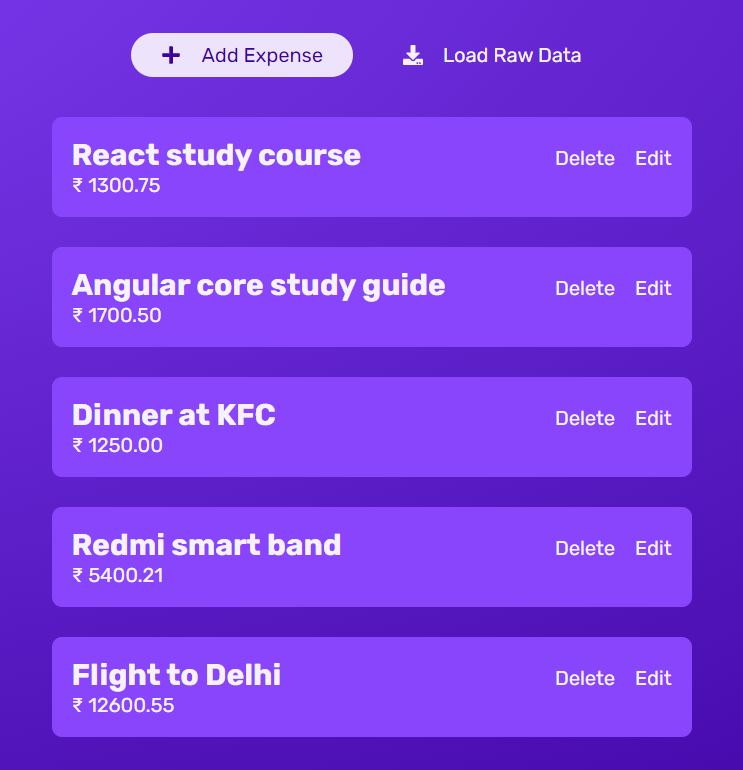
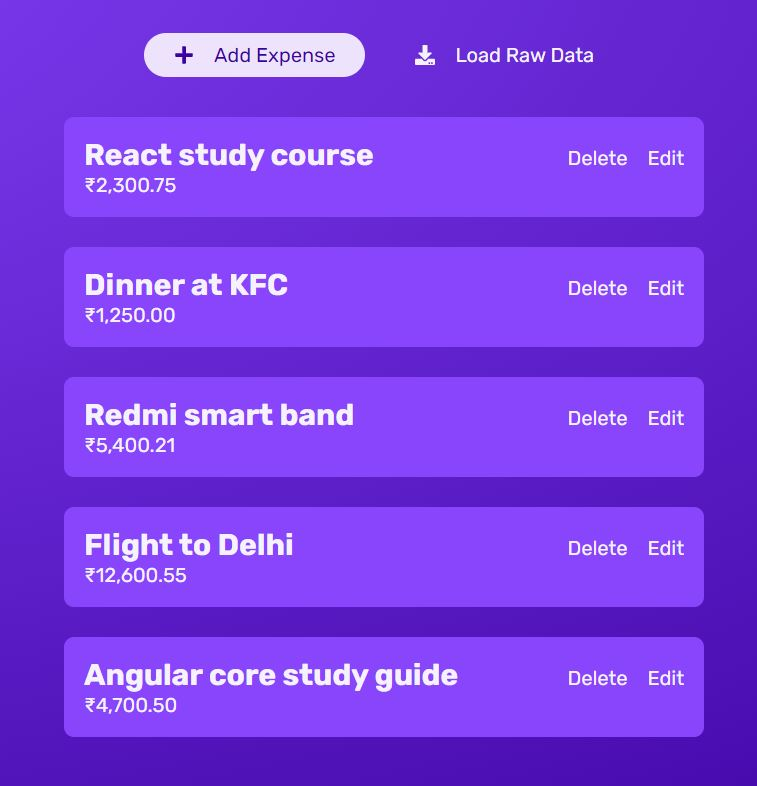
rupee format added

diff --git a/app/components/expenses/ExpenseStatistics.jsx b/app/components/expenses/ExpenseStatistics.jsx
@@ -1,4 +1,5 @@
 import { useMemo } from 'react';
+import { formatMyCurrency } from '~/components/util/currency-format';
 
 function calculateSummaryStatistics(expenses) {
   const amounts = expenses.map((expense) => +expense.amount);
@@ -22,19 +23,20 @@ function ExpenseStatistics({ expenses }) {
       <dl id="expense-statistics">
         <div>
           <dt>Total</dt>
-          <dd>&#8377; {sum.toFixed(2)}</dd>
+          {/* <dd>&#8377; {sum.toFixed(2)}</dd> */}
+          <dd>{formatMyCurrency(sum)}</dd>
         </div>
         <div>
           <dt>Average</dt>
-          <dd>&#8377; {mean.toFixed(2)}</dd>
+          <dd>{formatMyCurrency(mean)}</dd>
         </div>
         <div>
           <dt> Min. Amount</dt>
-          <dd>&#8377; {minAmount.toFixed(2)}</dd>
+          <dd>{formatMyCurrency(minAmount)}</dd>
         </div>
         <div>
           <dt>Max. Amount</dt>
-          <dd>&#8377; {maxAmount.toFixed(2)}</dd>
+          <dd>{formatMyCurrency(maxAmount)}</dd>
         </div>
       </dl>
     </section>

diff --git a/app/components/expenses/ExpenseListItem.jsx b/app/components/expenses/ExpenseListItem.jsx
@@ -1,5 +1,7 @@
 import { Link, useFetcher, Form, useSubmit } from '@remix-run/react';
 
+import { formatMyCurrency } from '~/components/util/currency-format';
+
 function ExpenseListItem({ id, title, amount }) {
   // const submit = useSubmit();
   const fetcher = useFetcher(); // if u wanna perform action & don't want to navigate, use 'fetcher' instead 'submit'
@@ -31,7 +33,8 @@ function ExpenseListItem({ id, title, amount }) {
     <article className="expense-item">
       <div>
         <h2 className="expense-title">{title}</h2>
-        <p className="expense-amount">&#8377; {amount.toFixed(2)}</p>
+        {/* <p className="expense-amount">&#8377; {amount.toFixed(2)}</p> */}
+        <p className="expense-amount"> {formatMyCurrency(amount)} </p>
       </div>
       <menu className="expense-actions">
         <button onClick={deleteExpenseItemHandler}>Delete</button>

diff --git a/app/routes/__marketing/pricing.jsx b/app/routes/__marketing/pricing.jsx
@@ -13,7 +13,7 @@ const PRICING_PLANS = [
   {
     id: 'p2',
     title: 'Pro',
-    price: '₹9.99/month',
+    price: '₹650.99 + GST / month',
     perks: ['Unlimited Users', 'Unlimited expenses/year', 'Detailed analytics'],
     icon: FaTrophy
   },

diff --git a/app/components/util/currency-format.js b/app/components/util/currency-format.js
@@ -1,0 +1,5 @@
+export const formatMyCurrency = (value, currency='INR', locale='en-IN') =>
+  new Intl.NumberFormat(locale, {
+    style: 'currency',
+    currency: currency
+  }).format(value);
